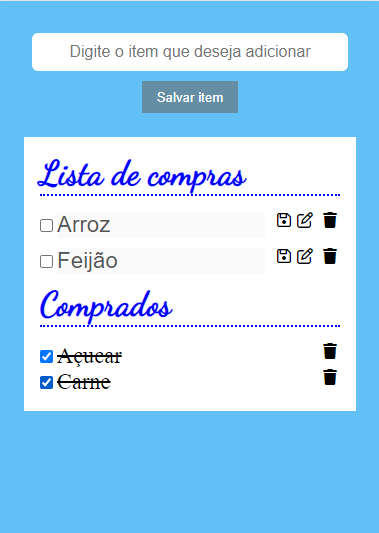
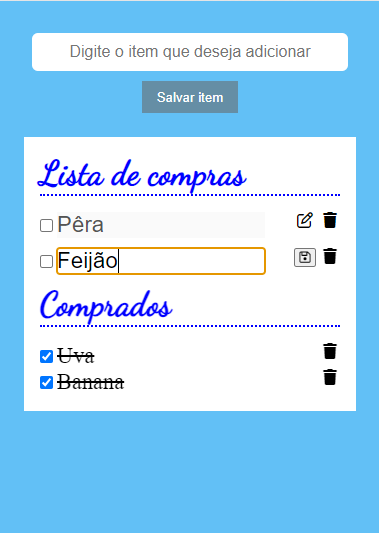
final project && image print

Changed region(s): [[0.0871, 0.3902, 0.6966, 0.6004], [0.0871, 0.6304, 0.3193, 0.7505], [0.6966, 0.3902, 0.8417, 0.5103]]

diff --git a/main.js b/main.js
@@ -5,6 +5,8 @@ const itensInput = document.querySelector("#receber-itens");
 const ulItens = document.querySelector('.ul-lista-compras');
 const ulComprados = document.querySelector('.ul-comprados');
 
+let itemAEditar;
+
 mostrarItem();
 
 formulario.addEventListener("submit", event => {
@@ -59,10 +61,10 @@ function mostrarItem() {
             <li data-value=${index}>
                 <div>
                     <input type="checkbox">
-                    <input type="text" value="${item.valor}" disabled>
+                    <input type="text" value="${item.valor}" ${index !== Number(itemAEditar) ? 'disabled' : ''}>
                 </div>
                 <div>
-                    <i class="fa-regular fa-floppy-disk is-clickable"></i><i class="fa-regular is-clickable fa-pen-to-square editar"></i>
+                    ${index === Number(itemAEditar) ? '<button onclick="atualizarItem()"><i class="fa-regular fa-floppy-disk"></i></button>' : '<i class="fa-regular fa-pen-to-square editar"></i>'}
                     <i class="fa-solid fa-trash deletar"></i>
                 </div>
             </li>
@@ -77,7 +79,31 @@ function mostrarItem() {
                 mostrarItem();
             })
         });
+
+        const itensDeletar = document.querySelectorAll('.deletar');
+        itensDeletar.forEach(i => {
+            i.addEventListener('click', event => {
+                valorElemento = event.target.parentElement.parentElement.getAttribute('data-value');
+                listaDeItens.splice(valorElemento, 1);
+                mostrarItem();
+            })
+        });
+
+        const itensEditar = document.querySelectorAll('.editar');
+        itensEditar.forEach(i => {
+            i.addEventListener('click', event => {
+                itemAEditar = event.target.parentElement.parentElement.getAttribute('data-value');
+                mostrarItem();
+            });
+        });
     });
 
     atualizarLocalStorage();
+}
+
+function atualizarItem() {
+    const itemEditado = document.querySelector(`[data-value="${itemAEditar}"] input[type="text"]`);
+    listaDeItens[itemAEditar].valor = itemEditado.value;
+    itemAEditar = -1;
+    mostrarItem();
 }

diff --git a/index.html b/index.html
@@ -15,7 +15,7 @@
 <body>
     <div class="form-container" data-formulario>
         <form class="form">
-            <input type="text" id="receber-itens" placeholder="Digite o item que deseja adicionar">
+            <input type="text" id="receber-itens" placeholder="Digite o item que deseja adicionar" required>
             <button>Salvar item</button>
         </form>
     </div>
